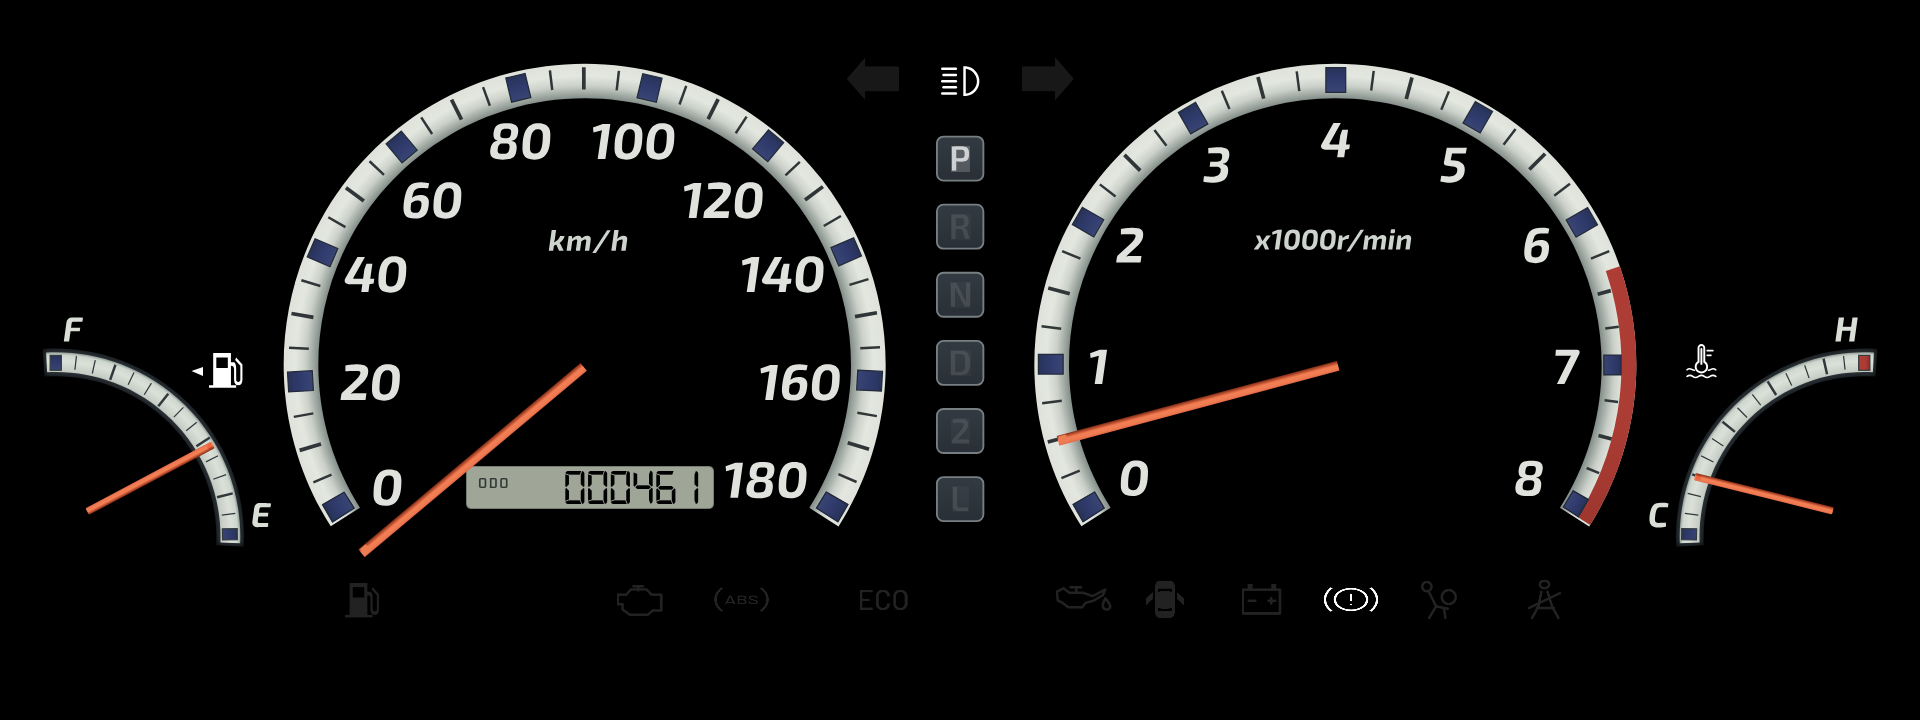
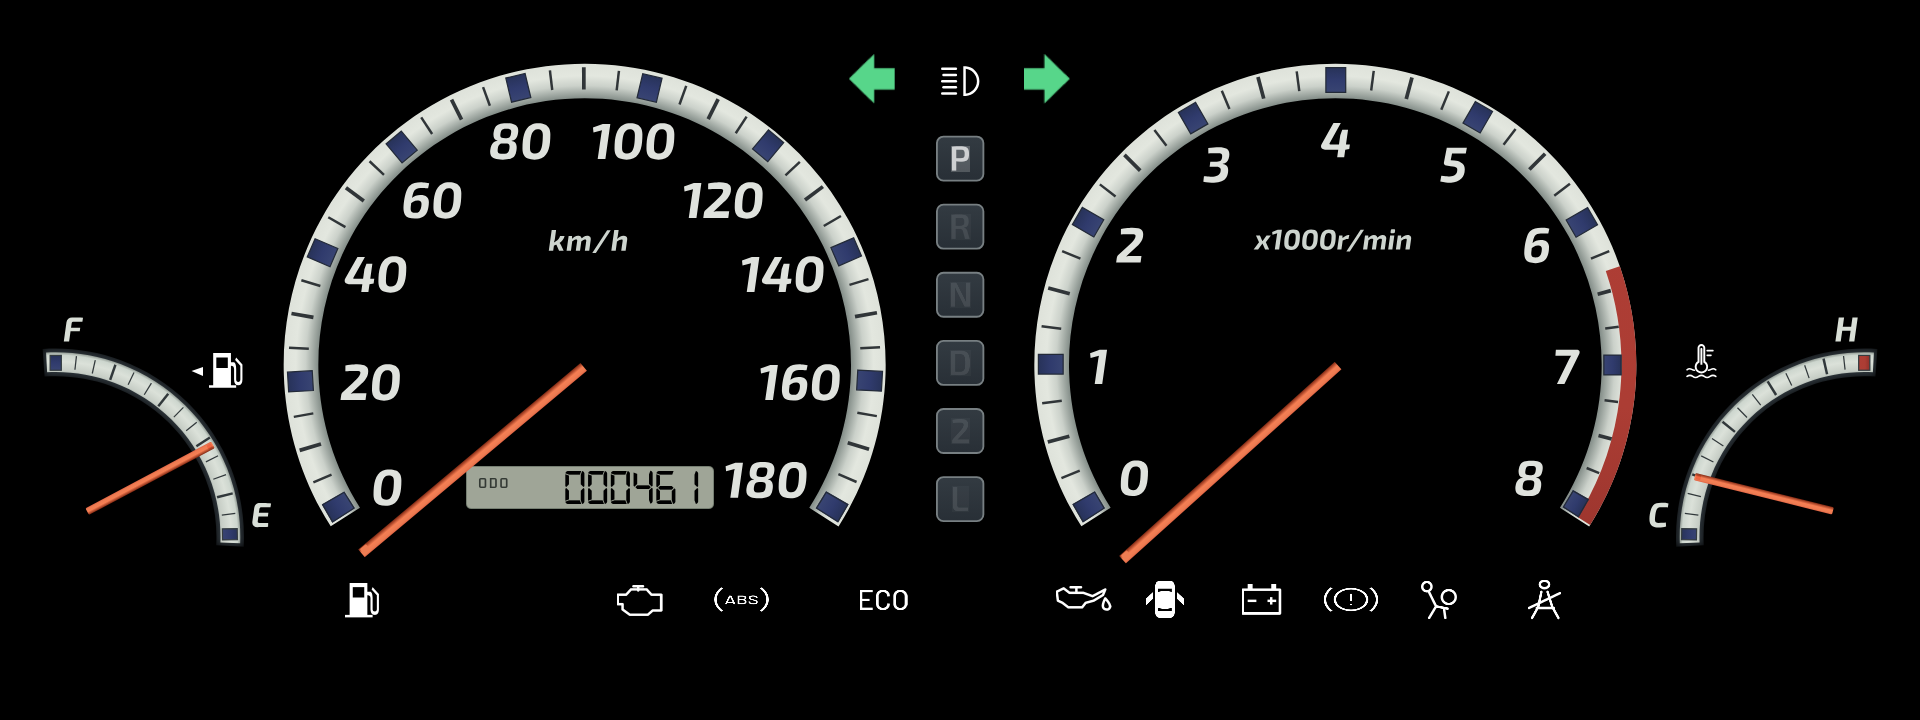
dsh: Gaia — поворотники из классики, зелёные (#57D68A), в макете Gaia их иконки больше не нужны

diff --git a/Dashboard/GaiaSkin.qml b/Dashboard/GaiaSkin.qml
@@ -335,19 +335,24 @@ Item {
 
     // ======================= ПОВОРОТНИКИ =======================
     // По центру сверху, между ними — статичный значок из фона.
+    // Картинки — белые стрелки из классического скина, покрашенные в
+    // зелёный заранее (tools/gaia_arrows.py): цвет в QML на программном
+    // рендерере не работает.
     Image {
-        source: "images/gaia/turn_left.png"
+        source: "images/gaia/turn_left_green.png"
         width: 52.5
         height: 50
+        fillMode: Image.PreserveAspectFit
         x: 873 - width / 2
         y: 79 - height / 2
         smooth: true
         opacity: root.lampTest || root.leftTurnOn ? 1.0 : root.arrowOffOpacity
     }
     Image {
-        source: "images/gaia/turn_right.png"
+        source: "images/gaia/turn_right_green.png"
         width: 52.5
         height: 50
+        fillMode: Image.PreserveAspectFit
         x: 1048 - width / 2
         y: 79 - height / 2
         smooth: true

diff --git a/docs/skin.md b/docs/skin.md
@@ -34,7 +34,10 @@ python3 tools/gaia_text.py     # что написано на шкалах (OCR 
   максимум под 410°), правая 0…8 «×1000/min» (138°…408°);
 - колонка передач: карточки x 936.9…983.4, шаг 68.1, сверху вниз P R N D 2 L;
 - поворотники — (873, 79) и (1048, 79); по центру сверху между ними значок
-  из пяти полос — он статичный, остался в фоне;
+  из пяти полос — он статичный, остался в фоне. Сами стрелки взяты **из
+  классического скина** (те же файлы, что у Genesis) и покрашены в
+  **зелёный** #57D68A заранее — tools/gaia_arrows.py: цвет в QML задаётся
+  только шейдерным эффектом, а на программном рендерере он не работает;
 - лампы, центры по x: 362 топливо, 639 двигатель, 741 ABS, 884 ECO,
   1084 масло, 1165 двери, 1261 АКБ, 1351 тормоза, 1439 подушка, 1544 ремень;
 - топливо и температура живут в нижних углах, это маленькие наклонные
